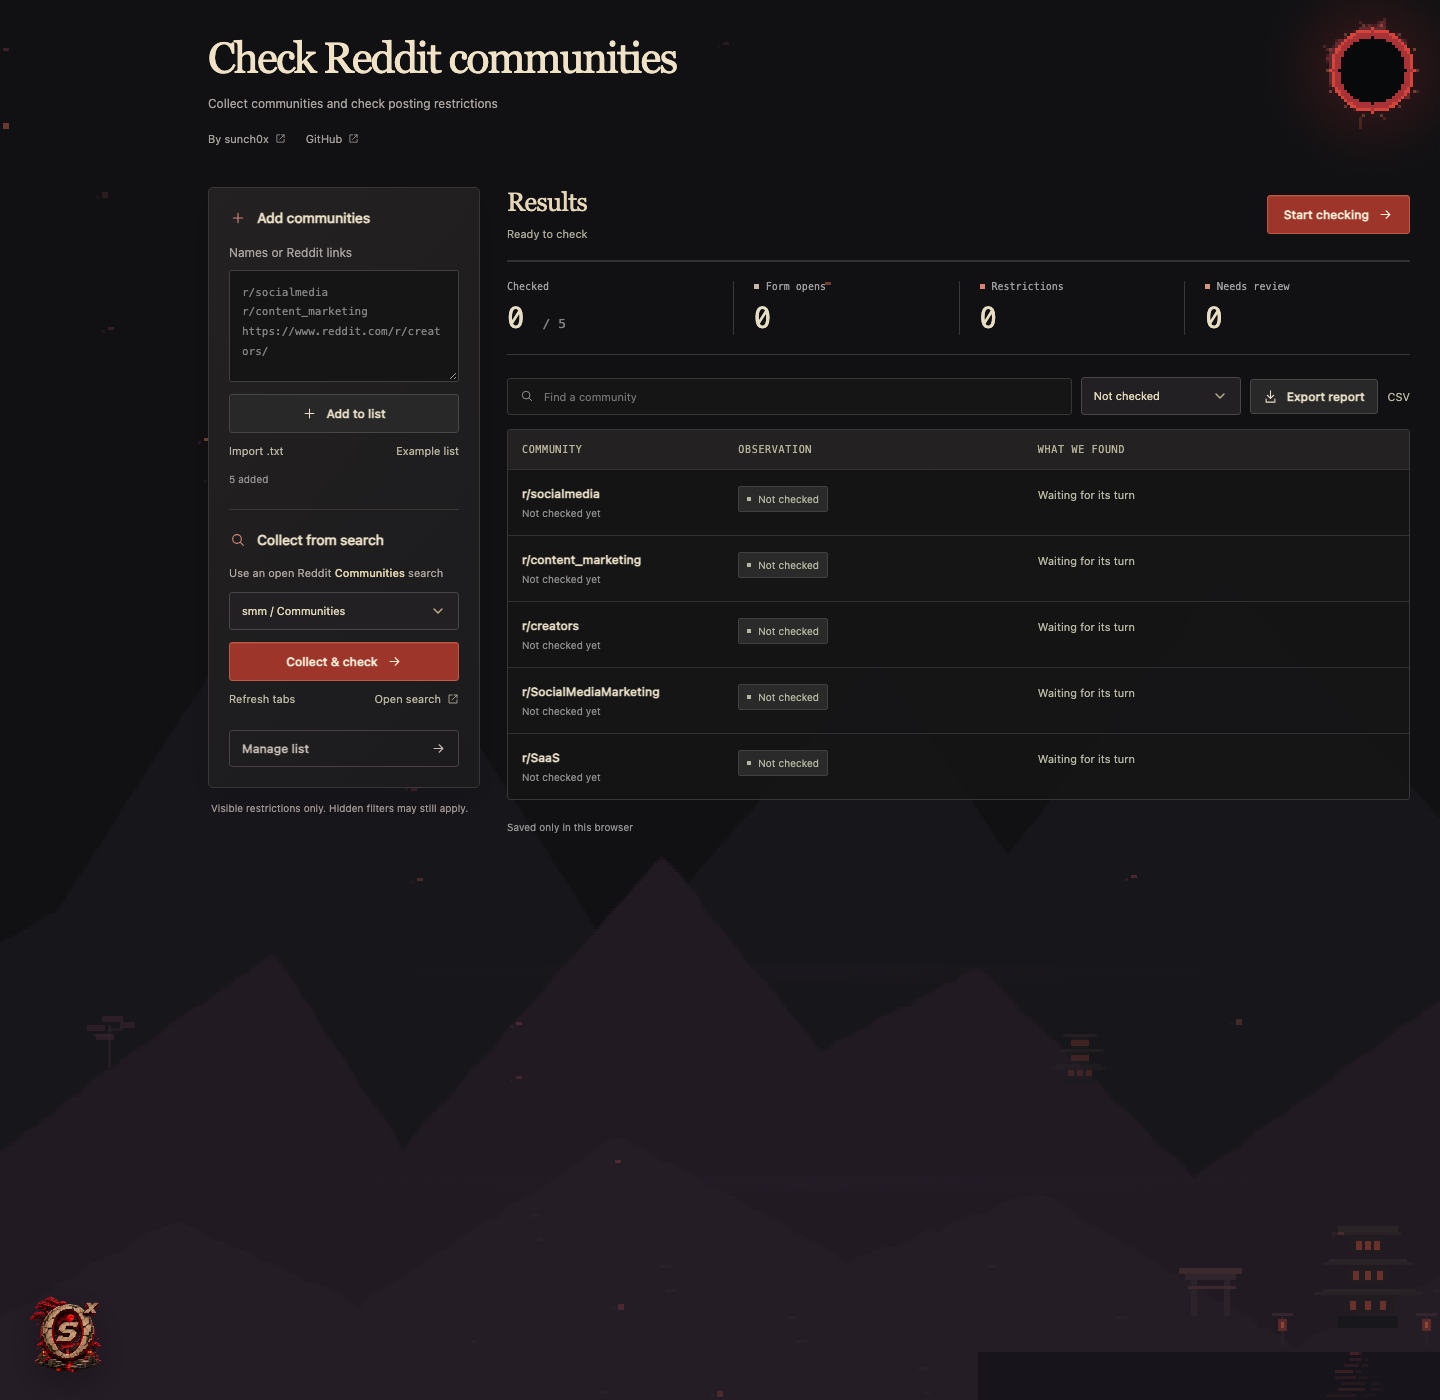
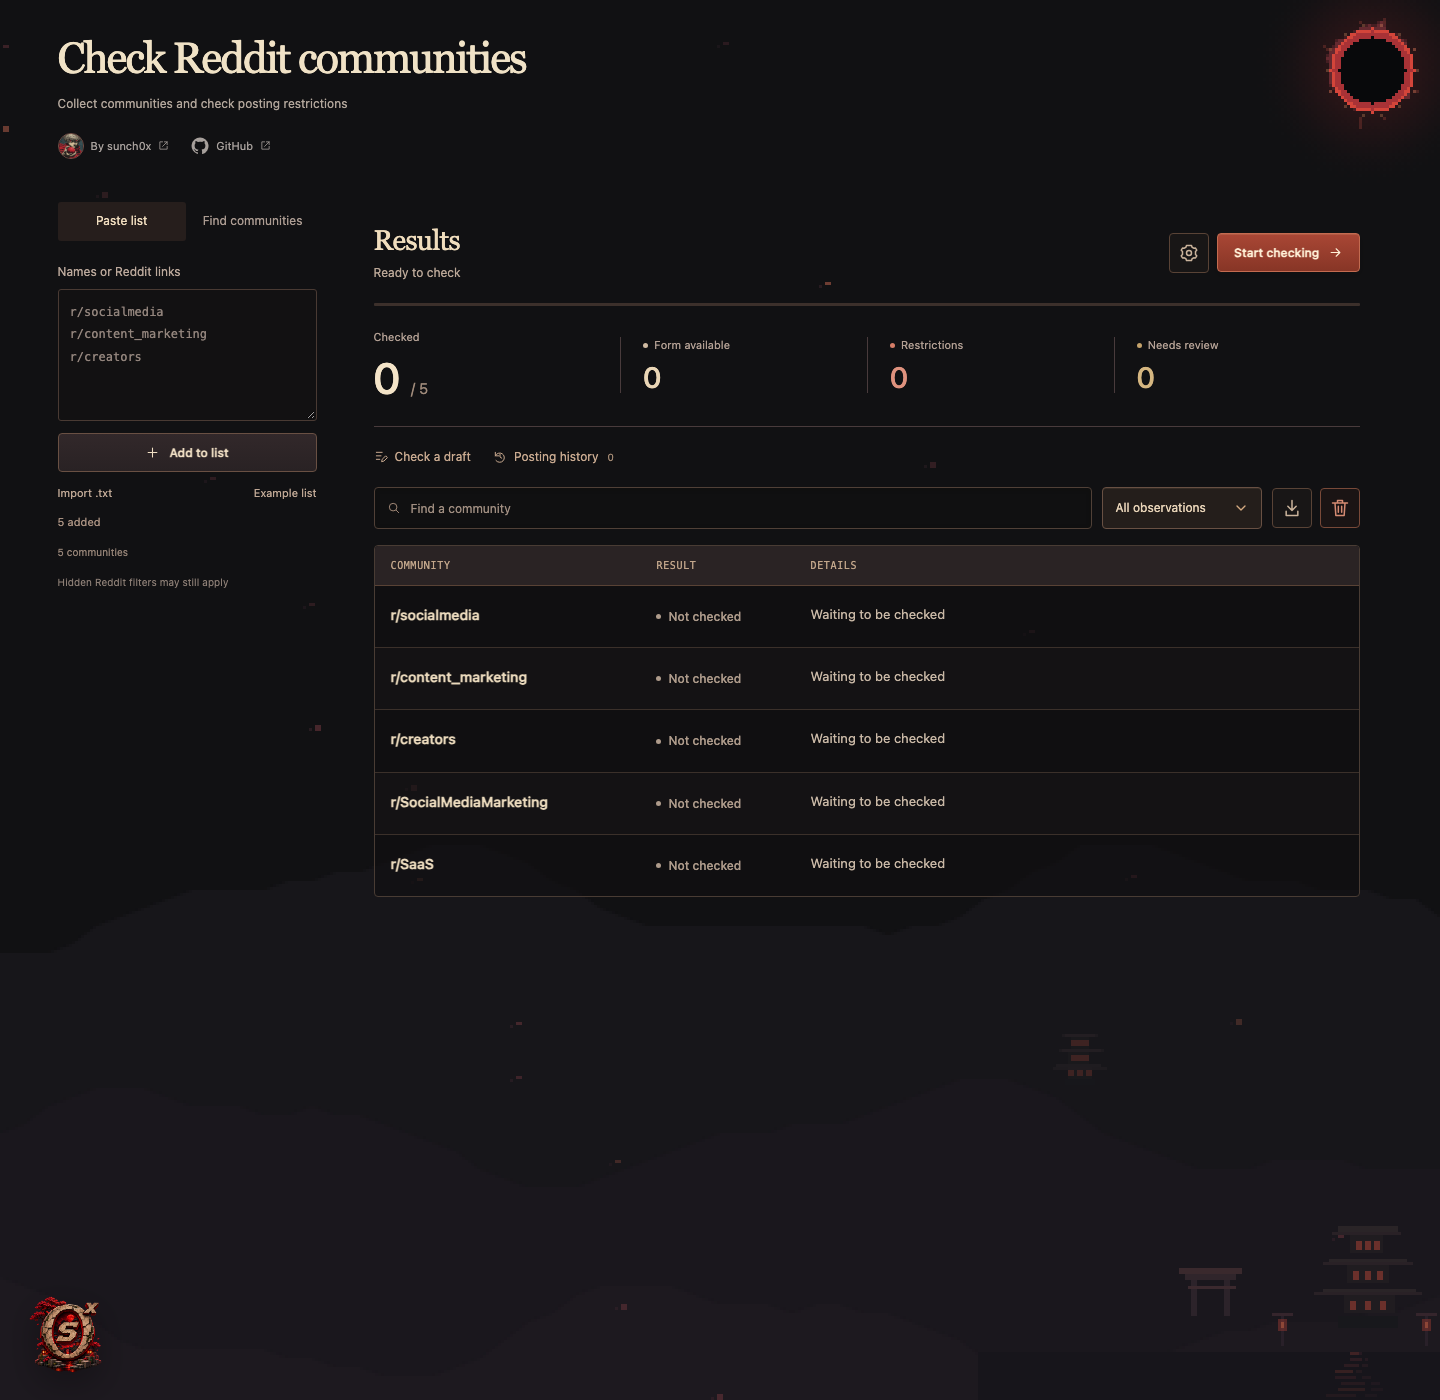
Refresh project screenshot and simplify README

diff --git a/README.md b/README.md
@@ -2,55 +2,44 @@
 
 # Reddit Preflight
 
-**Check the community before you write the post.**
+Check Reddit communities before spending time on a post.
 
-A small, local Chrome extension that visits your community list in one reusable tab and records visible posting restrictions using your existing Reddit session.
+Paste a list of subreddits, or collect them from Reddit search. Preflight visits each community in one reusable browser tab and records visible posting restrictions for your current Reddit session.
 
-![Reddit Preflight dashboard](docs/assets/dashboard.png)
+**Free and open source. Runs in Chrome. No extra account, API key or AI subscription.**
 
-Dashboard with an example community list, before a scan. No sample eligibility results are prefilled.
+Built by [sunch0x](https://linkdeck.co/sunch0x).
 
-An independent tool by [sunch0x](https://linkdeck.co/sunch0x).
+## Interface
 
-## What it does
+![Reddit Preflight dashboard with five communities waiting to be checked](docs/assets/dashboard.png)
 
-- Paste subreddit names or links, or import a plain-text list
-- **Collect & check**: scroll an open Reddit Communities search, collect names, then start checking
-- Inspect visible account-age / karma gates, approval requests, sign-in prompts and browser challenges
-- Reuse one checker-owned tab; no additional delay between completed checks
-- Pause, resume and retry uncertain results
-- Export an HTML report, CSV or a restorable JSON backup
-- Recognize the current account when Reddit exposes an explicit account-menu identifier
+Current local 0.8.2 interface, shown before a scan with an example list. The published release is still 0.5.6; this screenshot previews the updated build. No eligibility results are prefilled.
 
-**It does not post, fill in content, join, vote or send messages.** No server, extra account, API key or AI subscription is needed.
+## What it checks
 
-## Install in Chrome
+- Visible account-age and karma requirements
+- Moderator approval and unavailable communities
+- Sign-in requests, rate limits and browser challenges
+- Whether an editable title and text field appear
 
-This is an unpacked developer extension, not a Chrome Web Store listing.
+**An available form does not guarantee that Reddit will accept your post.** Hidden filters and later moderation decisions are outside the check.
 
-1. Download the ZIP from [Releases](https://github.com/sunch0x/reddit-preflight/releases) and extract it, or clone this repository
-2. Open `chrome://extensions` in the same Chrome profile you use for Reddit
-3. Enable **Developer mode**
-4. Click **Load unpacked** and select the extracted release folder, or the repository's **extension** folder
-5. Click **Reddit Preflight** in Chrome's extensions menu
+Preflight never submits posts, fills a Reddit draft, joins communities, votes or sends messages.
 
-Sign in to Reddit normally before starting. You do not enter your username or password in Preflight.
+## Get started
 
-## Collect & check
+1. Download and extract the ZIP from [Releases](https://github.com/sunch0x/reddit-preflight/releases), or clone this repository
+2. Open `chrome://extensions` in the Chrome profile you use for Reddit
+3. Turn on **Developer mode** and click **Load unpacked**
+4. Select the extracted extension folder, or `extension/` inside the cloned repository
+5. Open Reddit Preflight from the extensions menu
 
-1. Open a Reddit search and select the **Communities** results tab
-2. Click the extension icon while on that page, or select its tab under **From Reddit search**
-3. Click **Collect & check**
+Sign in to Reddit normally. You never enter your Reddit password in Preflight.
 
-Preflight reads community links from the results pane, scrolls it, deduplicates names and saves each batch locally. Once the loaded results stop growing at the bottom, it automatically checks pending communities. Existing observations are preserved, so already checked communities are not rechecked.
+### Paste a list
 
-The search tab stays open. The form checker uses its own reusable tab. Stop the operation with **Pause**; collected names remain in your list and the checks do not start after a manual stop. If search navigation changes, a challenge appears or collection stalls, it stops and keeps the partial list for review.
-
-This collects what Reddit loads for that specific search, not every subreddit on Reddit. Limits: 1,000 communities per list, a two-minute collection window, and a stop when the loaded results remain unchanged. After a partial collection, you can continue collecting from the same search or start checks yourself.
-
-## Use it
-
-Paste a list such as:
+Add community names or Reddit links, then click **Add to list** and **Start checking**. You can also import a `.txt` file.
 
 ```text
 r/socialmedia
@@ -58,38 +47,40 @@ r/content_marketing
 https://www.reddit.com/r/creators/
 ```
 
-Click **Add to list**, then **Start checking**. Keep the dashboard open. Checks are sequential; page loading and form rendering still take time. Closing the dashboard stops active work, and saved progress can be resumed.
+### Collect from search
 
-If Reddit requests sign-in, rate-limits the session or shows a browser challenge, Preflight pauses. It does not bypass these checks. After resolving them yourself, use **Retry uncertain results**. If the detected Reddit account changed, use **Recheck all / changed Reddit account** instead.
+Open a Reddit search and choose its **Communities** tab. In Preflight, select that search tab and click **Collect & check**.
 
-At completion, export a report. Downloaded reports include every row, including pending or uncertain ones. Only the checker-owned tab is closed; a tab you navigated elsewhere is left alone.
+Preflight scrolls the loaded results, removes duplicate names and checks the collected list. Existing checked entries are preserved. It collects what Reddit loads for that search, not every community on Reddit.
 
-## Understand the results
+## Review and export
 
-| Observation | Meaning |
-|---|---|
-| Form opens | An editable title and body appeared on two consecutive observations. **This is not permission to publish.** |
-| Account requirement | A visible account-activity gate was detected; age and karma are distinguished when the message states them |
-| Approval required | Reddit displayed a private-community or posting-approval requirement |
-| Community unavailable | Reddit displayed an unavailable-community message |
-| Needs review | The page could not be interpreted conclusively within the observation window |
-| Sign in / browser check / rate limited | The scan paused so you can inspect the current tab |
-| Account changed | Two different explicitly identified accounts were observed; the scan paused |
-| Manually confirmed / excluded | Your own mark, distinct from the automated observation |
+Search or filter the results, open the details behind an observation, and export a CSV, HTML report or JSON backup.
 
-## Important limitations
+Checks run sequentially in one reusable tab. Keep the dashboard open while scanning. Pause whenever you need to. If Reddit asks you to sign in, rate-limits the session or shows a challenge, the scan pauses rather than bypassing it.
 
-Reddit can render a composer before checking eligibility, and some restrictions appear only after a submission attempt. AutoModerator and moderators may apply hidden rules or remove content later. An open composer does not prove that your account meets every requirement, and this tool never submits a test post to find out.
+Use the retry and recheck controls after resolving a problem or switching accounts. Never treat checks from another Reddit account as your own eligibility results.
 
-This is **not** a hidden-karma-threshold detector, a shadowban checker, a moderation-policy checker or a guarantee that promotional posts are allowed. It reports visible UI observations only. Late dialogs, UI changes, unsupported locales, closed shadow roots or slow pages can produce missed or uncertain results. English and common Russian blocking phrases are currently recognized; the interface and exports are English.
+## Updated local build
 
-Account detection is opportunistic. It does not guess your identity from post authors or arbitrary profile links. If no explicit account-menu identifier is available, the account stays unidentified. Never combine checks from different Reddit accounts; recheck after switching.
+The local 0.8.2 build also includes:
 
-Automated tests cover classification, delayed visible gates, queue behavior, local exports and ownership of the reusable tab. They do not establish compatibility with every live Reddit layout or account. Reports are observations tied to a time and account, not permanent eligibility records.
+- Collection of visible community rules with source links
+- **Check a draft:** compare your text against explicit collected requirements
+- **Posting history:** manually record post links and outcomes
+- A compact settings menu, download menu and separate list deletion
 
-## Local development
+These additions have local automated and browser-fixture coverage, but are not yet included in the published 0.5.6 release or the current GitHub source. Live Reddit behavior can differ from fixtures.
 
-Node.js 20.11+ and the system `zip` command are sufficient. No npm dependencies are installed.
+## Privacy
+
+Lists, observations and backups stay in your browser or files you export. No results are uploaded to a Preflight server. The extension uses your existing Reddit session and requests access to `www.reddit.com`.
+
+See [PRIVACY.md](PRIVACY.md) for details. This independent project is not affiliated with Reddit.
+
+## Development
+
+Node.js 20.11+ and the system `zip` command are sufficient. No npm dependencies are required.
 
 ```sh
 npm test
@@ -97,12 +88,6 @@ npm run check
 npm run package
 ```
 
-Load `extension/` unpacked in Chrome. After changing extension files, click its reload button on `chrome://extensions`, then reopen the dashboard.
+Load `extension/` unpacked. After an update, reload the extension on `chrome://extensions` and reload its dashboard.
 
-The extension starts with an empty list. The optional sample list contains only public community names with no prefilled results. Personal reports and browser state are not included in the repository or release package.
-
-## Privacy and license
-
-See [PRIVACY.md](PRIVACY.md). Runtime code and assets are local; no results are uploaded. Creator and product links are regular links, not trackers.
-
-MIT licensed. This independent project is not affiliated with or endorsed by Reddit.
+MIT licensed.
